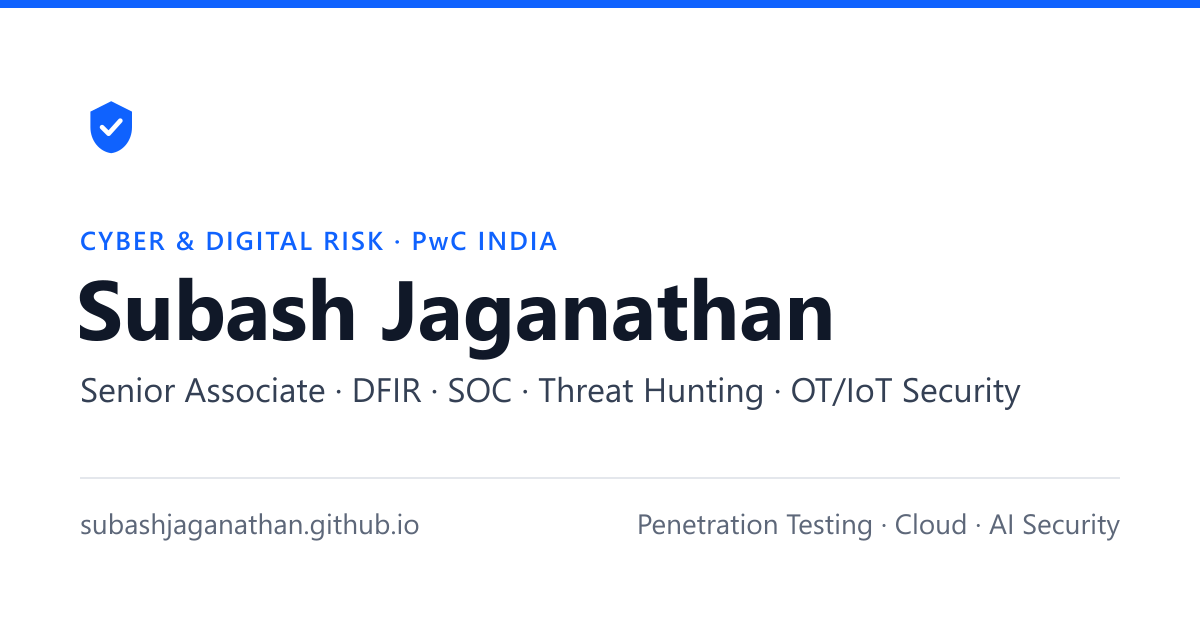
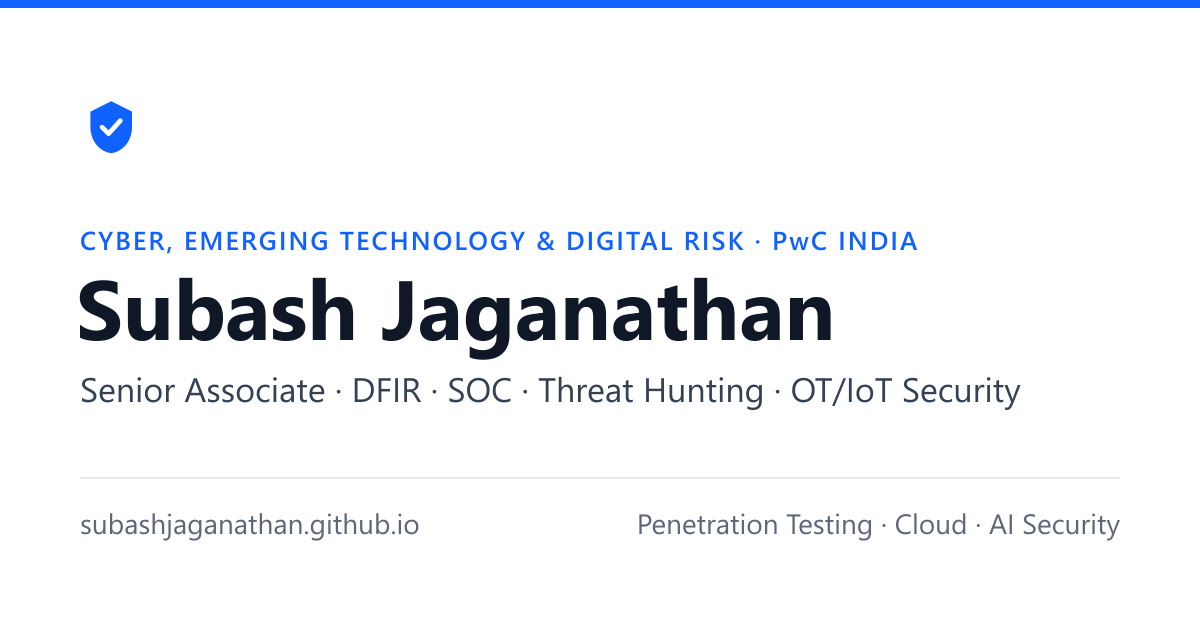
Content pass: Cyber, Emerging Technology & Digital Risk; tighter copy
- Use the practice name "Cyber, Emerging Technology & Digital Risk"
  everywhere the role appears: eyebrow, page title, meta and share
  descriptions, structured data, the At a glance panel, the PwC role
  and the share image
- Hero summary and About rewritten to read once, without repeating the
  same list three times; no claims added or removed
- En dashes in date ranges and titles, one spelling of "organizations",
  "Impact in numbers" instead of "Results that matter"

Changed region(s): [[0.1233, 0.3619, 0.7708, 0.4222]]

diff --git a/index.html b/index.html
@@ -9,11 +9,11 @@
   <meta name="viewport" content="width=device-width, initial-scale=1.0" />
   <meta name="theme-color" content="#ffffff" />
   <meta http-equiv="Content-Security-Policy" content="default-src 'self'; base-uri 'self'; img-src 'self' data:; style-src 'self' 'unsafe-inline'; font-src 'self'; script-src 'self'; connect-src 'self'; object-src 'none'; frame-src 'none'" />
-  <title>Subash Jaganathan | Senior Associate - Cyber &amp; Digital Risk | DFIR · SOC · Threat Hunting · OT/IoT Security</title>
-  <meta name="description" content="Subash Jaganathan - Senior Associate, Cyber &amp; Digital Risk (Advisory) at PwC, specializing in DFIR, SOC operations, threat hunting and OT/IoT security, backed by penetration testing (VAPT), cloud security and AI security. Incident response, malware analysis, threat intelligence and security programs aligned to ISO 27001, NIST CSF 2.0 and 800-53. 6+ years across banking, government and critical-infrastructure sectors." />
+  <title>Subash Jaganathan | Senior Associate, Cyber, Emerging Technology &amp; Digital Risk, PwC India | DFIR · SOC · OT/IoT Security</title>
+  <meta name="description" content="Subash Jaganathan - Senior Associate, Cyber, Emerging Technology &amp; Digital Risk (Advisory) at PwC India, specializing in DFIR, SOC operations, threat hunting and OT/IoT security, backed by penetration testing (VAPT), cloud security and AI security. Incident response, malware analysis, threat intelligence and security programs aligned to ISO 27001, NIST CSF 2.0 and 800-53. 6+ years across banking, government and critical-infrastructure sectors." />
   <link rel="canonical" href="https://subashjaganathan.github.io/" />
   <meta name="author" content="Subash Jaganathan" />
-  <meta property="og:title" content="Subash Jaganathan | Senior Associate - Cyber &amp; Digital Risk" />
+  <meta property="og:title" content="Subash Jaganathan | Senior Associate, Cyber, Emerging Technology &amp; Digital Risk, PwC India" />
   <meta property="og:description" content="DFIR · SOC · Threat Hunting · OT/IoT Security · Penetration Testing · Cloud Security · AI Security · Cyber Advisory." />
   <meta property="og:type" content="website" />
   <meta property="og:url" content="https://subashjaganathan.github.io/" />
@@ -21,7 +21,7 @@
   <meta property="og:image:width" content="1200" />
   <meta property="og:image:height" content="630" />
   <meta name="twitter:card" content="summary_large_image" />
-  <meta name="twitter:title" content="Subash Jaganathan | Senior Associate - Cyber &amp; Digital Risk" />
+  <meta name="twitter:title" content="Subash Jaganathan | Senior Associate, Cyber, Emerging Technology &amp; Digital Risk, PwC India" />
   <meta name="twitter:description" content="DFIR · SOC · Threat Hunting · OT/IoT Security · Penetration Testing · Cloud Security · AI Security · Cyber Advisory" />
   <meta name="twitter:image" content="https://subashjaganathan.github.io/assets/og-image.png" />
   <script type="application/ld+json">
@@ -29,7 +29,7 @@
     "@context": "https://schema.org",
     "@type": "Person",
     "name": "Subash Jaganathan",
-    "jobTitle": "Senior Associate - Cyber & Digital Risk (Advisory)",
+    "jobTitle": "Senior Associate - Cyber, Emerging Technology & Digital Risk (Advisory)",
     "worksFor": { "@type": "Organization", "name": "PwC India (PricewaterhouseCoopers Services LLP)" },
     "url": "https://subashjaganathan.github.io/",
     "sameAs": [
@@ -71,12 +71,12 @@
   <header class="hero" id="home">
     <div class="hero-inner">
       <div class="hero-copy">
-        <p class="eyebrow">Cyber &amp; Digital Risk &middot; PwC India</p>
+        <p class="eyebrow">Cyber, Emerging Technology &amp; Digital Risk &middot; PwC India</p>
         <h1 class="hero-name">Subash Jaganathan</h1>
         <p class="hero-role">Senior Associate &middot; DFIR, SOC, Threat Hunting &amp; OT/IoT Security</p>
-        <p class="hero-sub">I lead incident response and forensic investigations across Windows, Linux, mobile, cloud and OT/ICS,
-          hunt advanced threats, test applications and cloud environments, and advise on security programs aligned to
-          ISO 27001, NIST CSF 2.0 and NIST SP 800-53, across banking, government and critical-infrastructure clients.</p>
+        <p class="hero-sub">I lead incident response and forensic investigations across Windows, Linux, mobile, cloud and OT/ICS
+          environments, hunt advanced threats, test applications and cloud platforms, and help banking, government and
+          critical-infrastructure clients build security programs aligned to ISO 27001, NIST CSF 2.0 and NIST SP 800-53.</p>
         <div class="hero-actions">
           <a href="#experience" class="btn btn-primary">View experience</a>
           <a href="#contact" class="btn btn-ghost js-email" data-subject="Resume request" data-body="Hi Subash, I would like to request your latest resume.\n\nName:\nCompany / Organization:\nRole:">Request resume</a>
@@ -84,7 +84,7 @@
         </div>
         <ul class="hero-facts">
           <li><strong>6+</strong><span>years in security</span></li>
-          <li><strong>20+</strong><span>organisations recovered</span></li>
+          <li><strong>20+</strong><span>organizations recovered</span></li>
           <li><strong>50,000+</strong><span>professionals trained</span></li>
         </ul>
       </div>
@@ -101,31 +101,32 @@
       <div class="section-head"><p class="eyebrow">About</p><h2 class="section-title">Profile</h2></div>
       <div class="about-grid">
         <div class="about-text">
-          <p>Results-driven cybersecurity professional with <strong>6+ years</strong> of hands-on experience specializing in
+          <p>Cybersecurity professional with <strong>6+ years</strong> of hands-on experience in
             <strong>Digital Forensics &amp; Incident Response (DFIR)</strong>, <strong>Security Operations (SOC)</strong>,
-            <strong>Threat Hunting</strong> and <strong>OT / IoT Security</strong>, backed by <strong>Penetration Testing (VAPT)</strong>,
-            <strong>Cloud Security</strong>, <strong>Malware Analysis</strong> and <strong>Threat Intelligence</strong>, with growing expertise in <strong>AI Security</strong>, LLM threat detection and AI-assisted VAPT within SOC and IR workflows.</p>
-          <p>Proven record conducting in-depth forensic investigations across <strong>Windows, Linux, mobile, cloud and OT/ICS</strong> environments,
-            leading SOC operations, and responding to sophisticated threats including <strong>APTs, ransomware and insider attacks</strong>
-            across banking, financial services, government and critical-infrastructure sectors.</p>
-          <p>Recognized for driving measurable improvements in incident response maturity, forensic investigation depth, and
-            regulatory compliance (<strong>SEBI · RBI · PCI DSS</strong>).</p>
+            <strong>Threat Hunting</strong> and <strong>OT/IoT Security</strong>. That core is backed by <strong>penetration testing (VAPT)</strong>,
+            <strong>cloud security</strong>, <strong>malware analysis</strong> and <strong>threat intelligence</strong>, and a growing focus on
+            <strong>AI security</strong>: LLM threat detection and AI-assisted VAPT within SOC and IR workflows.</p>
+          <p>I have led in-depth forensic investigations across <strong>Windows, Linux, mobile, cloud and OT/ICS</strong> environments,
+            run SOC operations, and responded to <strong>APTs, ransomware and insider attacks</strong> for banking, financial services,
+            government and critical-infrastructure organizations.</p>
+          <p>Recognized for measurable improvements in incident response maturity, forensic investigation depth and
+            regulatory compliance (<strong>SEBI, RBI, PCI DSS</strong>).</p>
           <div class="about-highlight">
             <span class="hl-icon"><svg aria-hidden="true" class="ico" viewBox="0 0 24 24"><line x1="3" y1="22" x2="21" y2="22"/><line x1="6" y1="18" x2="6" y2="11"/><line x1="10" y1="18" x2="10" y2="11"/><line x1="14" y1="18" x2="14" y2="11"/><line x1="18" y1="18" x2="18" y2="11"/><path d="M4 7l8-5 8 5z"/></svg></span>
-            <p>Extending continuous support to the <strong>Government of Tamil Nadu</strong> as a <strong>Cyber Forensic Expert (Volunteer)</strong> under the
-              <strong>Ministry of Home Affairs</strong>, working alongside the Tamil Nadu Police, CBCID and Narcotics Control Bureau in
-              cybercrime investigations, capability building and digital evidence analysis.</p>
+            <p><strong>Volunteer Cyber Forensic Expert</strong> supporting the <strong>Government of Tamil Nadu</strong> under the
+              <strong>Ministry of Home Affairs</strong>, working alongside the Tamil Nadu Police, CBCID and Narcotics Control Bureau on
+              cybercrime investigations, digital evidence analysis and capability building.</p>
           </div>
           <div class="about-highlight">
             <span class="hl-icon"><svg aria-hidden="true" class="ico" viewBox="0 0 24 24"><path d="M22 10L12 5 2 10l10 5 10-5z"/><path d="M6 12v5c3 3 9 3 12 0v-5"/></svg></span>
             <p>Trained and mentored <strong>50,000+ cybersecurity professionals and police officers</strong> through workshops,
-              capability-building programs and hands-on DFIR training, strengthening cyber readiness across enterprise and law enforcement communities.</p>
+              capability-building programs and hands-on DFIR training.</p>
           </div>
         </div>
         <aside class="facts">
           <h3>At a glance</h3>
           <dl>
-            <div><dt>Role</dt><dd>Senior Associate, Cyber &amp; Digital Risk</dd></div>
+            <div><dt>Role</dt><dd>Senior Associate, Cyber, Emerging Technology &amp; Digital Risk</dd></div>
             <div><dt>Company</dt><dd>PwC India</dd></div>
             <div><dt>Experience</dt><dd>6+ years</dd></div>
             <div><dt>Focus</dt><dd>DFIR, SOC, Threat Hunting, OT/IoT Security, Penetration Testing, AI Security</dd></div>
@@ -338,8 +339,8 @@
           <div class="tl-marker current"></div>
           <div class="tl-card">
             <div class="tl-head">
-              <h3>Senior Associate - Cyber &amp; Digital Risk (Advisory)</h3>
-              <span class="tl-date">Aug 2026 - Present</span>
+              <h3>Senior Associate &ndash; Cyber, Emerging Technology &amp; Digital Risk (Advisory)</h3>
+              <span class="tl-date">Aug 2026 &ndash; Present</span>
             </div>
             <p class="tl-company">PwC India (PricewaterhouseCoopers Services LLP)</p>
             <ul>
@@ -362,7 +363,7 @@
           <div class="tl-card">
             <div class="tl-head">
               <h3>Senior Cyber Security Consultant</h3>
-              <span class="tl-date">Sep 2025 - Jul 2026</span>
+              <span class="tl-date">Sep 2025 &ndash; Jul 2026</span>
             </div>
             <p class="tl-company">4i Apps Solutions Pvt. Ltd.</p>
             <ul>
@@ -384,7 +385,7 @@
           <div class="tl-card">
             <div class="tl-head">
               <h3>Cyber Security Consultant</h3>
-              <span class="tl-date">Aug 2023 - Sep 2025</span>
+              <span class="tl-date">Aug 2023 &ndash; Sep 2025</span>
             </div>
             <p class="tl-company">Ernst &amp; Young LLP (Big 4)</p>
             <ul>
@@ -403,8 +404,8 @@
           <div class="tl-marker"></div>
           <div class="tl-card">
             <div class="tl-head">
-              <h3>Information Security Analyst - AM Grade I</h3>
-              <span class="tl-date">Feb 2023 - Aug 2023</span>
+              <h3>Information Security Analyst &ndash; AM Grade I</h3>
+              <span class="tl-date">Feb 2023 &ndash; Aug 2023</span>
             </div>
             <p class="tl-company">Equitas Small Finance Bank</p>
             <ul>
@@ -423,7 +424,7 @@
           <div class="tl-card">
             <div class="tl-head">
               <h3>Security Analyst</h3>
-              <span class="tl-date">Jul 2021 - Feb 2023</span>
+              <span class="tl-date">Jul 2021 &ndash; Feb 2023</span>
             </div>
             <p class="tl-company">Information Security Governance Pvt. Ltd. (CAMS - Vendor)</p>
             <ul>
@@ -441,7 +442,7 @@
           <div class="tl-card">
             <div class="tl-head">
               <h3>Security Analyst</h3>
-              <span class="tl-date">May 2020 - Jun 2021</span>
+              <span class="tl-date">May 2020 &ndash; Jun 2021</span>
             </div>
             <p class="tl-company">Techbylanz Business Solutions</p>
             <ul>
@@ -457,10 +458,10 @@
 
     <!-- ============ IMPACT ============ -->
     <section class="section" id="impact">
-      <div class="section-head"><p class="eyebrow">Impact</p><h2 class="section-title">Results that matter</h2></div>
+      <div class="section-head"><p class="eyebrow">Impact</p><h2 class="section-title">Impact in numbers</h2></div>
       <div class="stats-grid">
         <div class="stat"><span class="stat-num" data-count="6">0</span><span class="stat-plus">+</span><p>Years of Experience</p></div>
-        <div class="stat"><span class="stat-num" data-count="20">0</span><span class="stat-plus">+</span><p>Organizations Recovered from Breaches</p></div>
+        <div class="stat"><span class="stat-num" data-count="20">0</span><span class="stat-plus">+</span><p>Organizations Recovered After Breaches</p></div>
         <div class="stat"><span class="stat-num" data-count="3000">0</span><span class="stat-plus">+</span><p>Servers Assessed &amp; Secured</p></div>
         <div class="stat"><span class="stat-num" data-count="150">0</span><span class="stat-plus">+</span><p>Web &amp; Mobile Apps Tested</p></div>
         <div class="stat"><span class="stat-num" data-count="200">0</span><span class="stat-plus">+</span><p>Fraud Cases Dismantled</p></div>
@@ -578,7 +579,7 @@
         <div class="edu-card">
           <span class="edu-icon"><svg aria-hidden="true" class="ico" viewBox="0 0 24 24"><path d="M22 10L12 5 2 10l10 5 10-5z"/><path d="M6 12v5c3 3 9 3 12 0v-5"/></svg></span>
           <div>
-            <h3>Master of Computer Applications - Cyber Security</h3>
+            <h3>Master of Computer Applications &ndash; Cyber Security</h3>
             <p>Amrita Vishwa Vidyapeetham (NAAC A++), Coimbatore</p>
           </div>
           <span class="edu-gpa">9.3<small>/10</small></span>
@@ -586,7 +587,7 @@
         <div class="edu-card">
           <span class="edu-icon"><svg aria-hidden="true" class="ico" viewBox="0 0 24 24"><path d="M22 10L12 5 2 10l10 5 10-5z"/><path d="M6 12v5c3 3 9 3 12 0v-5"/></svg></span>
           <div>
-            <h3>B.Sc - Software Systems</h3>
+            <h3>B.Sc &ndash; Software Systems</h3>
             <p>Sri Krishna Arts and Science College, Coimbatore</p>
           </div>
           <span class="edu-gpa">8.5<small>/10</small></span>

diff --git a/volunteering.html b/volunteering.html
@@ -80,7 +80,7 @@
             <span class="vol-icon"><svg aria-hidden="true" class="ico" viewBox="0 0 24 24"><path d="M12 2l8 4v6c0 5.25-3.5 9.4-8 10-4.5-.6-8-4.75-8-10V6z"/></svg></span>
             <div><h3 class="vol-role">Cyber Forensic Expert</h3><p class="vol-org">Ministry of Home Affairs (MHA), Government of India</p></div>
           </div>
-          <div class="vol-meta"><span class="vol-date">Feb 2020 - Present</span><span class="vol-cause">Science &amp; Technology</span><span class="vol-badge">Active</span></div>
+          <div class="vol-meta"><span class="vol-date">Feb 2020 &ndash; Present</span><span class="vol-cause">Science &amp; Technology</span><span class="vol-badge">Active</span></div>
           <p>Resolving cybercrime cases and conducting <strong>crime investigation, cyber forensics, data recovery, malware analysis and OSINT</strong> in support of national law-enforcement operations.</p>
         </article>
 
@@ -89,7 +89,7 @@
             <span class="vol-icon"><svg aria-hidden="true" class="ico" viewBox="0 0 24 24"><path d="M3 21h18M5 21V7l7-4 7 4v14M9 21v-6h6v6"/></svg></span>
             <div><h3 class="vol-role">Cyber Expert - Technical</h3><p class="vol-org">Government of Tamil Nadu</p></div>
           </div>
-          <div class="vol-meta"><span class="vol-date">Feb 2020 - Present</span><span class="vol-cause">Science &amp; Technology</span><span class="vol-badge">Active</span></div>
+          <div class="vol-meta"><span class="vol-date">Feb 2020 &ndash; Present</span><span class="vol-cause">Science &amp; Technology</span><span class="vol-badge">Active</span></div>
           <p>Supporting the <strong>Tamil Nadu Police, Special Branch CBCID and allied agencies</strong> with crime investigation, digital forensics, data recovery, malware analysis and OSINT for takedown and attribution operations.</p>
         </article>
 
@@ -98,7 +98,7 @@
             <span class="vol-icon"><svg aria-hidden="true" class="ico" viewBox="0 0 24 24"><path d="M12 22s8-4 8-10V5l-8-3-8 3v7c0 6 8 10 8 10z"/><path d="M9 12l2 2 4-4"/></svg></span>
             <div><h3 class="vol-role">Cybercrime Intervention Officer</h3><p class="vol-org">National Security Database (ISAC)</p></div>
           </div>
-          <div class="vol-meta"><span class="vol-date">Jul 2022 - Present</span><span class="vol-cause">Science &amp; Technology</span><span class="vol-badge">Active</span></div>
+          <div class="vol-meta"><span class="vol-date">Jul 2022 &ndash; Present</span><span class="vol-cause">Science &amp; Technology</span><span class="vol-badge">Active</span></div>
           <p>Part of the ISAC / National Security Database initiative <strong>supporting law enforcement</strong> and helping the public respond to and recover from cybercrime.</p>
         </article>
 
@@ -115,7 +115,7 @@
             <span class="vol-icon"><svg aria-hidden="true" class="ico" viewBox="0 0 24 24"><path d="M4 17l6-6-6-6M12 19h8"/></svg></span>
             <div><h3 class="vol-role">DCG Coimbatore Lead</h3><p class="vol-org">DEF CON Group (DCG)</p></div>
           </div>
-          <div class="vol-meta"><span class="vol-date">Oct 2024 - Present</span><span class="vol-cause">Science &amp; Technology</span><span class="vol-badge">Active</span></div>
+          <div class="vol-meta"><span class="vol-date">Oct 2024 &ndash; Present</span><span class="vol-cause">Science &amp; Technology</span><span class="vol-badge">Active</span></div>
           <p>Founding lead of <strong>DEF CON Group Coimbatore</strong>, building a local hacker community through talks, CTFs and open knowledge-sharing.</p>
         </article>
 
@@ -124,7 +124,7 @@
             <span class="vol-icon"><svg aria-hidden="true" class="ico" viewBox="0 0 24 24"><path d="M18 10h-1.26A8 8 0 1 0 9 20h9a5 5 0 0 0 0-10z"/></svg></span>
             <div><h3 class="vol-role">Treasurer - Tamil Nadu Chapter</h3><p class="vol-org">Cloud Security Alliance</p></div>
           </div>
-          <div class="vol-meta"><span class="vol-date">Aug 2025 - Present</span><span class="vol-cause">Science &amp; Technology</span><span class="vol-badge">Active</span></div>
+          <div class="vol-meta"><span class="vol-date">Aug 2025 &ndash; Present</span><span class="vol-cause">Science &amp; Technology</span><span class="vol-badge">Active</span></div>
           <p>Core member and <strong>Treasurer</strong> of the Cloud Security Alliance (CSA) Tamil Nadu chapter, advancing cloud-security best practices in the region.</p>
         </article>
 
@@ -133,8 +133,8 @@
             <span class="vol-icon"><svg aria-hidden="true" class="ico" viewBox="0 0 24 24"><path d="M12 2l3 7h7l-5.5 4.5L18 21l-6-4-6 4 1.5-7.5L2 9h7z"/></svg></span>
             <div><h3 class="vol-role">OWASP Coimbatore Chapter Leader</h3><p class="vol-org">OWASP&reg; Foundation</p></div>
           </div>
-          <div class="vol-meta"><span class="vol-date">Mar 2022 - Apr 2026</span><span class="vol-cause">Science &amp; Technology</span></div>
-          <p>Led the OWASP Coimbatore chapter - organizing community meetups, talks and hands-on sessions to grow <strong>application-security</strong> awareness across the region.</p>
+          <div class="vol-meta"><span class="vol-date">Mar 2022 &ndash; Apr 2026</span><span class="vol-cause">Science &amp; Technology</span></div>
+          <p>Led the OWASP Coimbatore chapter, organizing community meetups, talks and hands-on sessions to grow <strong>application-security</strong> awareness across the region.</p>
         </article>
 
         <article class="vol-card">
@@ -142,7 +142,7 @@
             <span class="vol-icon"><svg aria-hidden="true" class="ico" viewBox="0 0 24 24"><path d="M17 21v-2a4 4 0 0 0-4-4H5a4 4 0 0 0-4 4v2M9 11a4 4 0 1 0 0-8 4 4 0 0 0 0 8zM23 21v-2a4 4 0 0 0-3-3.87M16 3.13a4 4 0 0 1 0 7.75"/></svg></span>
             <div><h3 class="vol-role">Coimbatore Chapter Leader</h3><p class="vol-org">The Hackers Meetup</p></div>
           </div>
-          <div class="vol-meta"><span class="vol-date">Oct 2024 - Aug 2025</span><span class="vol-cause">Community</span></div>
+          <div class="vol-meta"><span class="vol-date">Oct 2024 &ndash; Aug 2025</span><span class="vol-cause">Community</span></div>
           <p>Led the Coimbatore chapter of The Hackers Meetup, running community security events, talks and networking for practitioners and students.</p>
         </article>
 
@@ -151,7 +151,7 @@
             <span class="vol-icon"><svg aria-hidden="true" class="ico" viewBox="0 0 24 24"><path d="M22 10L12 5 2 10l10 5 10-5z"/><path d="M6 12v5c3 3 9 3 12 0v-5"/></svg></span>
             <div><h3 class="vol-role">Head of Cyber Security</h3><p class="vol-org">Google Developers Group</p></div>
           </div>
-          <div class="vol-meta"><span class="vol-date">Mar 2020 - Mar 2021</span><span class="vol-cause">Education</span></div>
+          <div class="vol-meta"><span class="vol-date">Mar 2020 &ndash; Mar 2021</span><span class="vol-cause">Education</span></div>
           <p>Led cyber-security initiatives, workshops and sessions for the Google Developers Group community.</p>
         </article>
 
@@ -168,7 +168,7 @@
             <span class="vol-icon"><svg aria-hidden="true" class="ico" viewBox="0 0 24 24"><path d="M10 2v6l-6 10a2 2 0 0 0 2 3h12a2 2 0 0 0 2-3l-6-10V2"/><path d="M8 2h8"/></svg></span>
             <div><h3 class="vol-role">Senior DFIR Consultant</h3><p class="vol-org">National Cyber Security Research Council</p></div>
           </div>
-          <div class="vol-meta"><span class="vol-date">Aug 2022 - Present</span><span class="vol-cause">Science &amp; Technology</span><span class="vol-badge">Active</span></div>
+          <div class="vol-meta"><span class="vol-date">Aug 2022 &ndash; Present</span><span class="vol-cause">Science &amp; Technology</span><span class="vol-badge">Active</span></div>
           <p>Advising on <strong>digital forensics and incident response</strong> as part of national cyber-security research initiatives.</p>
         </article>
 
@@ -177,7 +177,7 @@
             <span class="vol-icon"><svg aria-hidden="true" class="ico" viewBox="0 0 24 24"><path d="M12 2l8 4v6c0 5.25-3.5 9.4-8 10-4.5-.6-8-4.75-8-10V6z"/><path d="M12 8v4M12 15h.01"/></svg></span>
             <div><h3 class="vol-role">Technical Member</h3><p class="vol-org">National Cyber Defence Research Centre (NCSS)</p></div>
           </div>
-          <div class="vol-meta"><span class="vol-date">Dec 2025 - Present</span><span class="vol-cause">Science &amp; Technology</span><span class="vol-badge">Active</span></div>
+          <div class="vol-meta"><span class="vol-date">Dec 2025 &ndash; Present</span><span class="vol-cause">Science &amp; Technology</span><span class="vol-badge">Active</span></div>
           <p>Contributing cyber-defence expertise toward national security initiatives and capability building.</p>
         </article>
 
